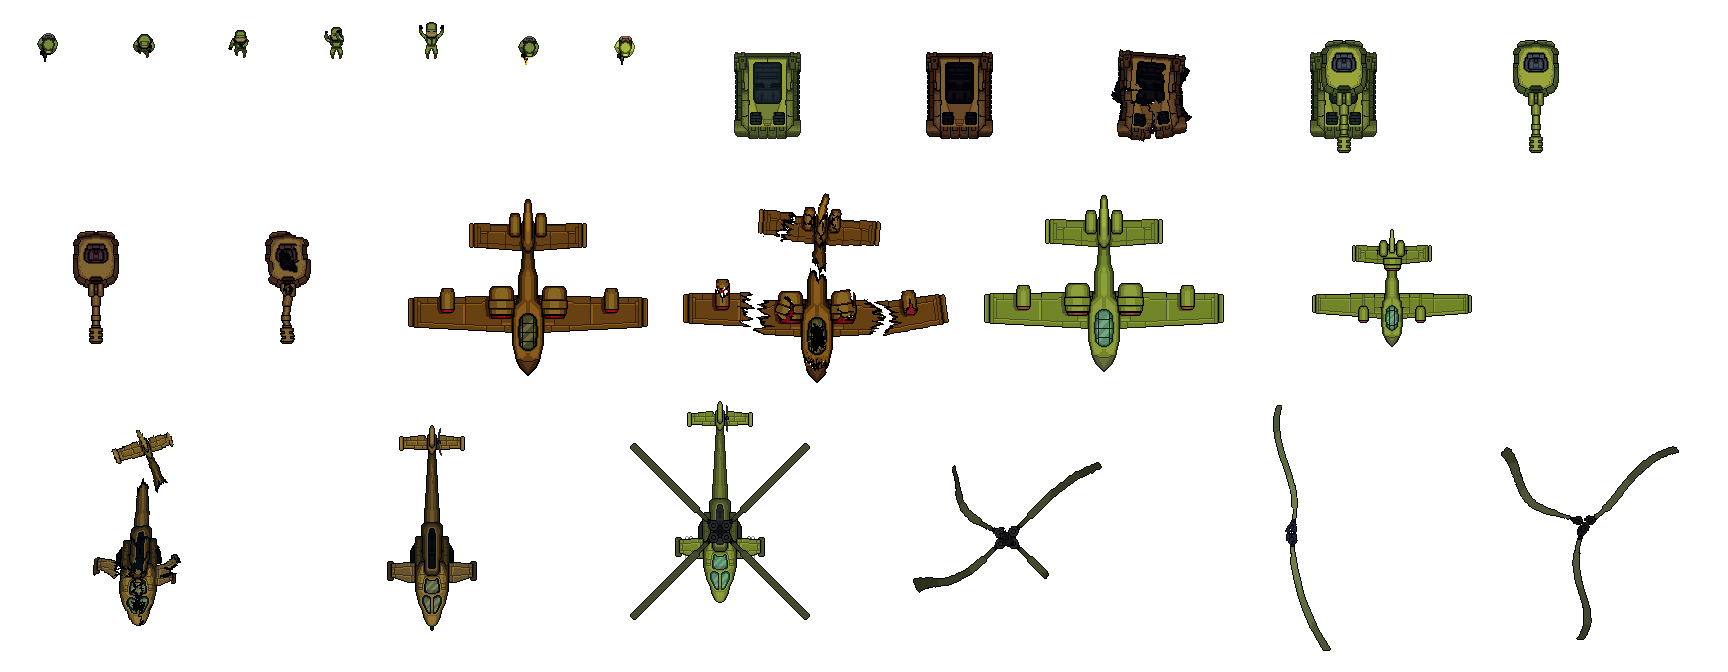
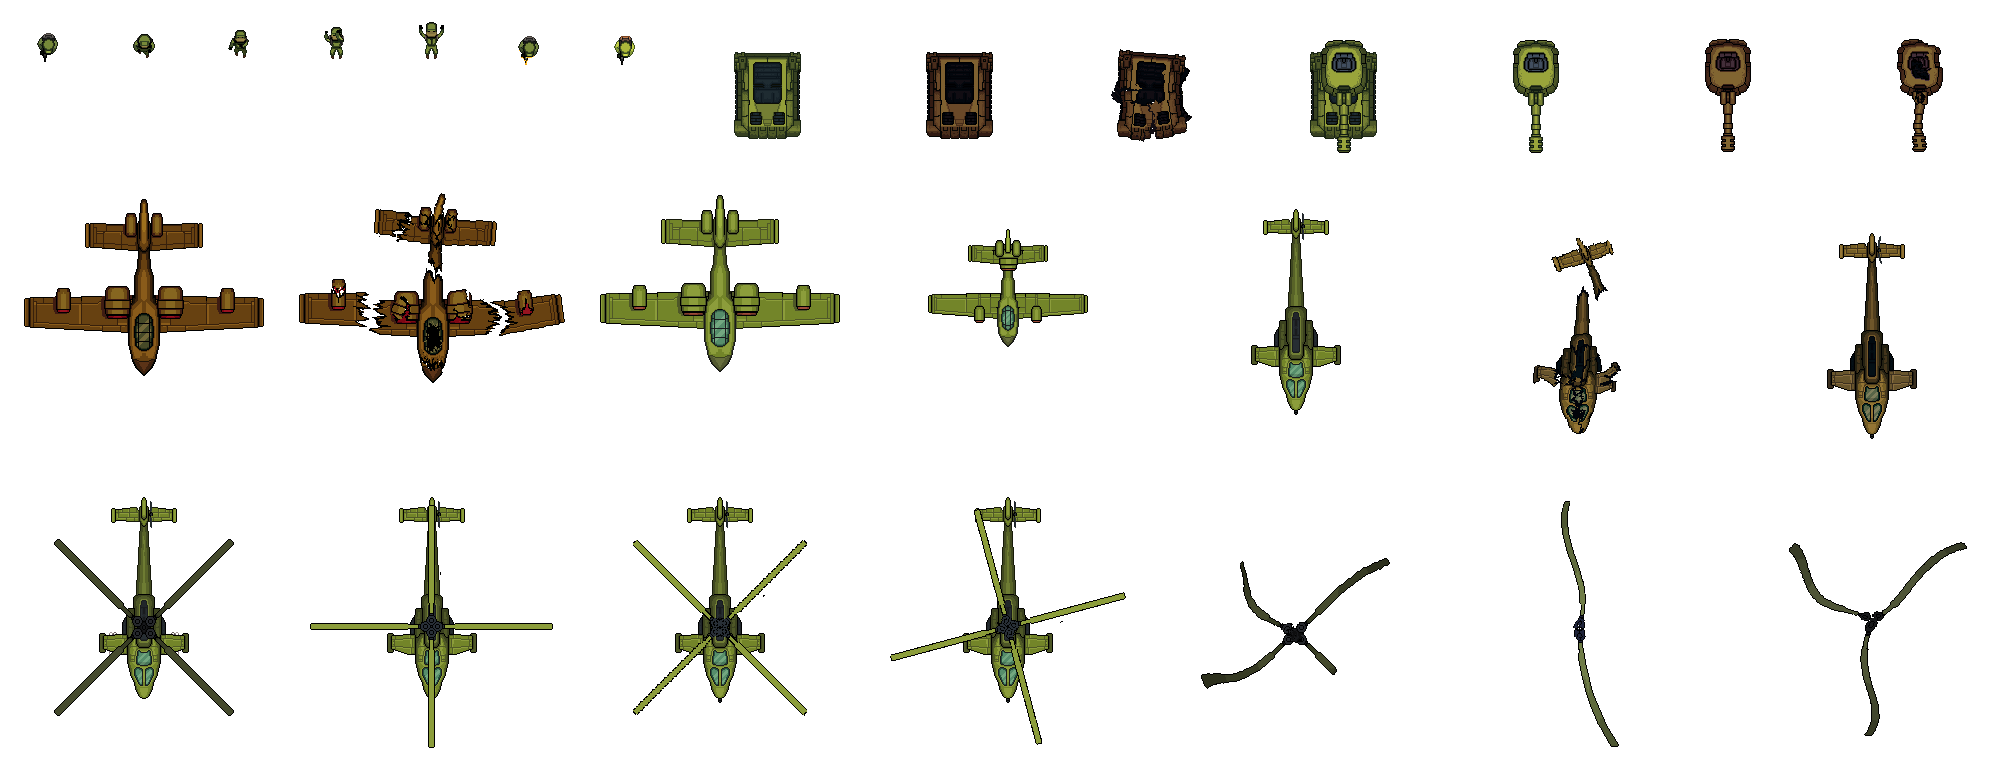
helicopter rotor

diff --git a/src/actors/enemies/Helicopter.ts b/src/actors/enemies/Helicopter.ts
@@ -7,14 +7,17 @@ class Helicopter extends Phaser.Physics.Arcade.Sprite {
         this.hitPoints = hp;
 
         this.scene.physics.add.existing(this);
-        
 
-/*         this.scene.anims.create({
-            key: "helicopterMove",
-            frames: this.scene.anims.generateFrameNames("helicopterMove", { prefix: "helicopter1", start: 1, end: 5 }),
-            frameRate: 10,
+        this.scene.anims.create({
+            key: "helicopterRotor",
+            frames: this.scene.anims.generateFrameNames("enemies", { prefix: "helicopterMove", start: 1, end: 3 }),
+            frameRate: 15,
+            repeat: 10
         });
-        this.anims.play("helicopterMove"); */
+
+        this.on('animationcomplete', (anim: Phaser.Animations.Animation, frame: Phaser.Animations.AnimationFrame) => {
+            this.setFrame("helicopterComplete");
+        });
     }
 
     public get isAlive(): boolean {
@@ -29,5 +32,7 @@ class Helicopter extends Phaser.Physics.Arcade.Sprite {
     //     super.destroy();
     // }
 }
+
+
 
 export { Helicopter }

diff --git a/src/scenes/LoadingScenes/Preload.ts b/src/scenes/LoadingScenes/Preload.ts
@@ -10,8 +10,8 @@ class Preload extends Phaser.Scene {
         this.load.atlas("playerIdleRifle", "./assets/player/TexturePacker/rifle/idle_rifle.png", "./assets/player/TexturePacker/rifle/idle_rifle.json");
         this.load.atlas("playerWalkRifle", "./assets/player/TexturePacker/rifle/walk_rifle.png", "./assets/player/TexturePacker/rifle/walk_rifle.json");
 
-        this.load.atlas("enemies", "./assets/images/enemies.png", "./assets/images/enemies.json");
-        this.load.atlas("helicopterMove", "./assets/images/helicopterMove.png", "./assets/images/helicopterMove.json");
+        this.load.atlas("enemies", "./assets/enemies/enemies.png", "./assets/enemies/enemies.json");
+        //this.load.atlas("helicopterMove", "./assets/objects/helicopterMove.png", "./assets/objects/helicopterMove.json");
 
         this.load.start();
     }

diff --git a/src/scenes/Gameplay/Level.ts b/src/scenes/Gameplay/Level.ts
@@ -14,11 +14,11 @@ class Level extends Phaser.Scene {
     create() {
         this.keys = new CharacterInput(this);
         
-        this.soldier = new Soldier(this, 100, 100);
-        this.add.existing(this.soldier);
+        // this.soldier = new Soldier(this, 100, 100);
+        // this.add.existing(this.soldier);
 
-                
         this.helicopter = new Helicopter(this, 300, 100);
+        this.helicopter.anims.play("helicopterRotor");
         this.add.existing(this.helicopter);
 
         this.time.addEvent({
@@ -30,8 +30,8 @@ class Level extends Phaser.Scene {
     }
 
     private soldier_die() {
-        this.soldier.anims.play("soldierDeath");
-    }    
+        //this.soldier.anims.play("soldierDeath");
+    }
 }
 
 export { Level }
